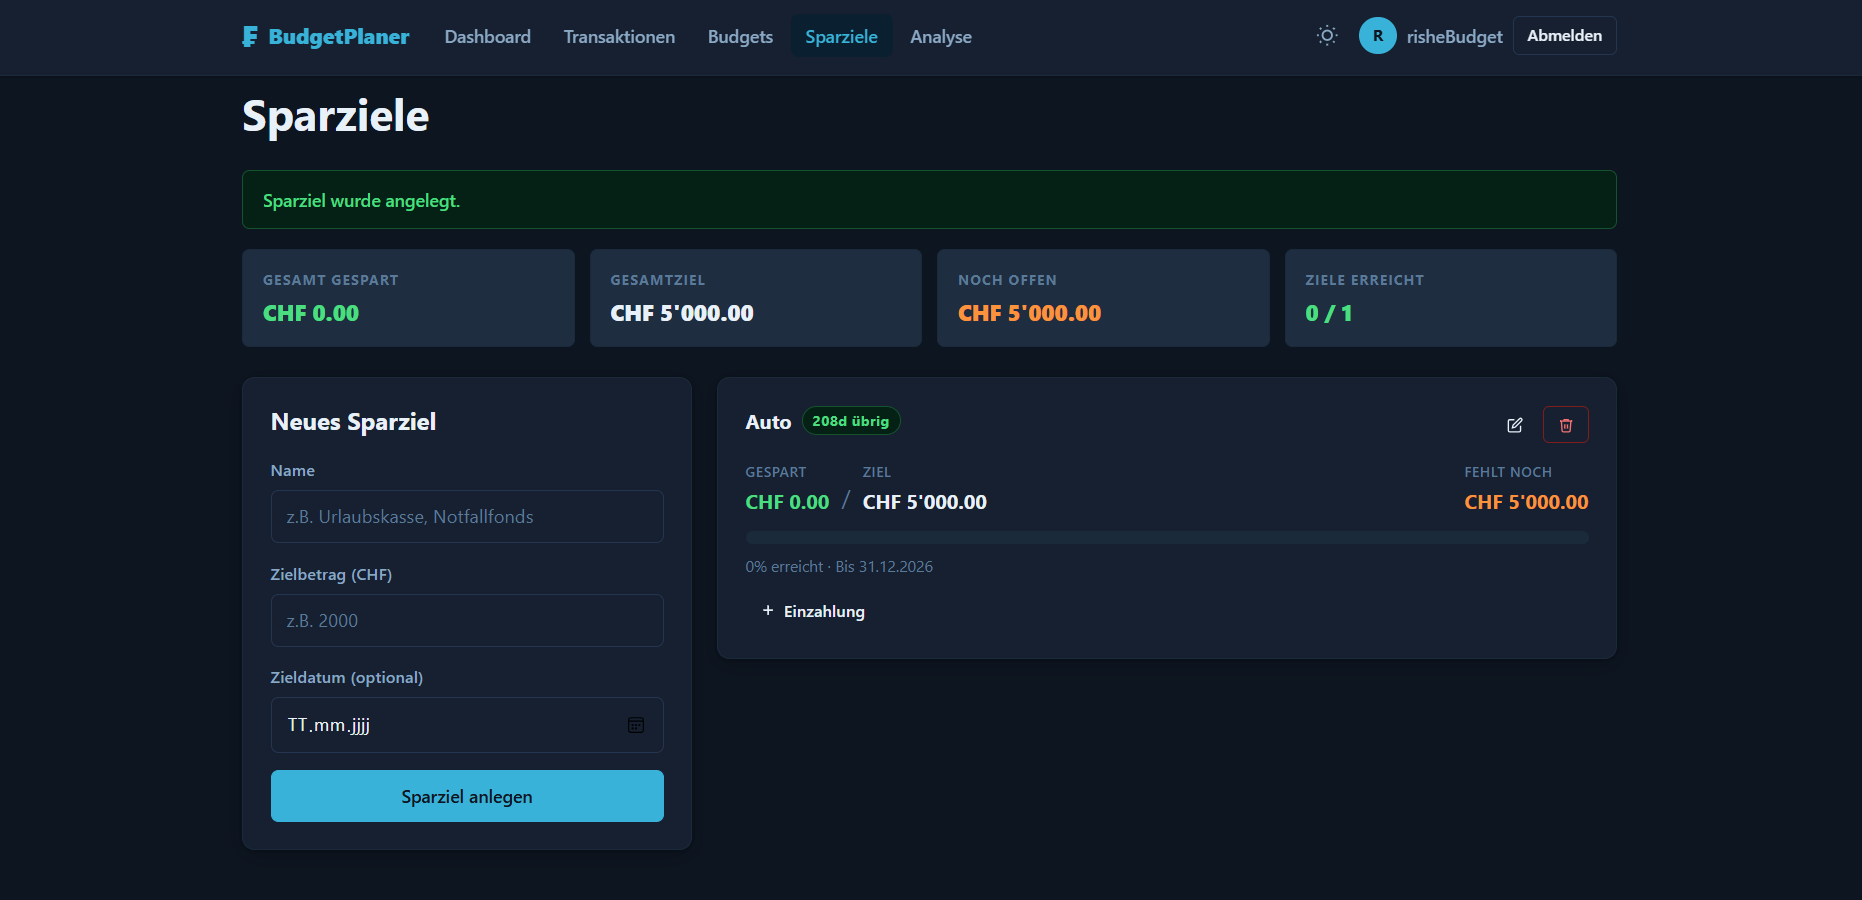
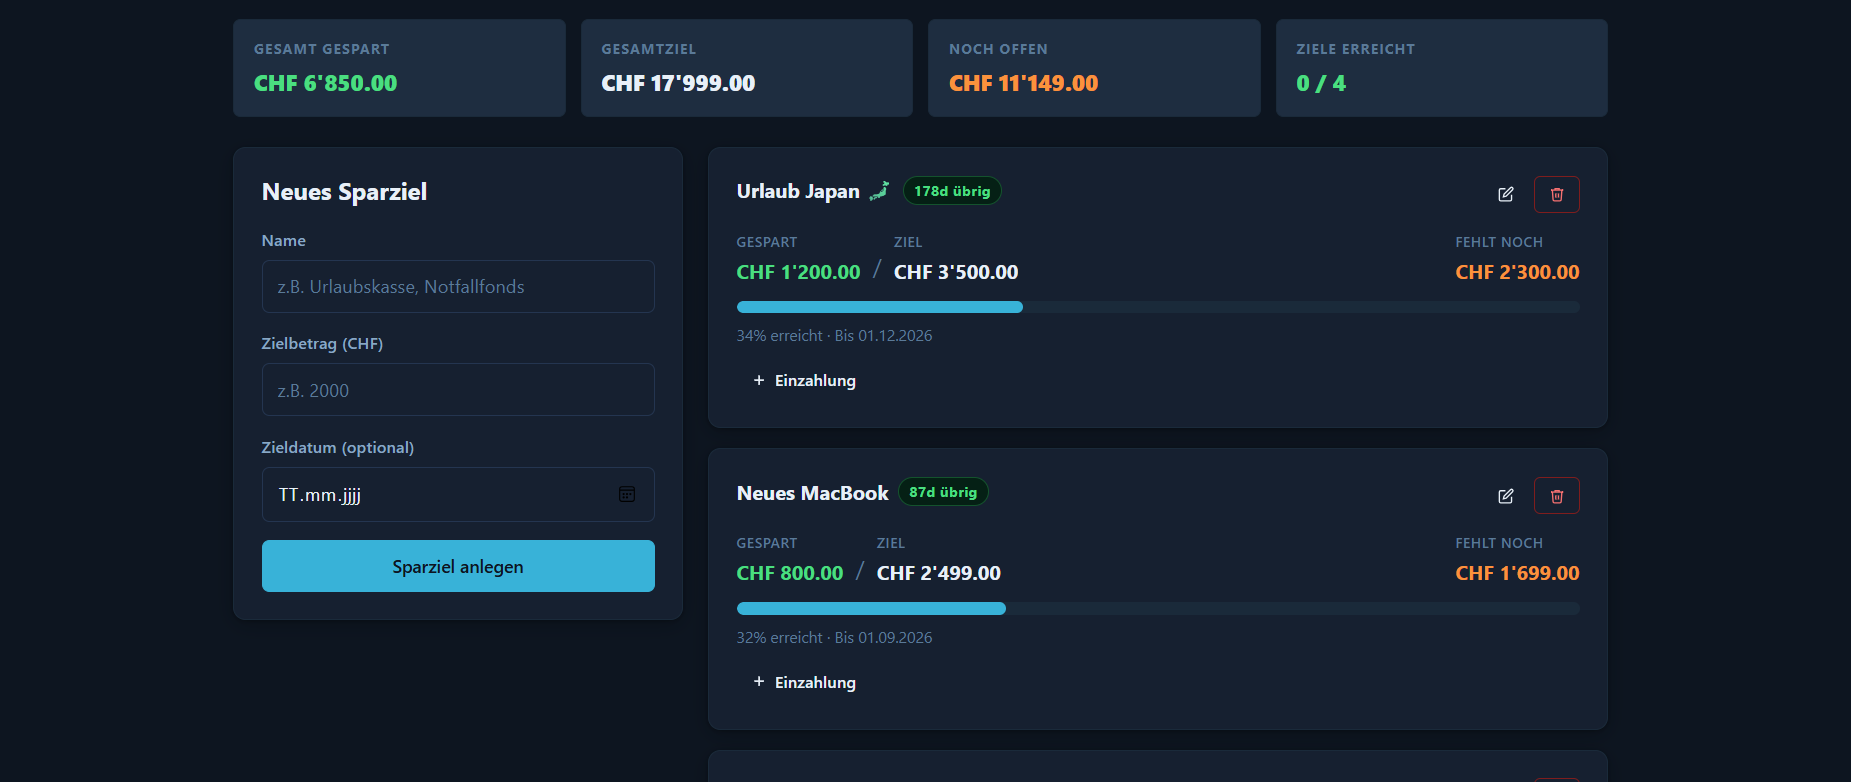
Update budget planner

diff --git a/README.md b/README.md
@@ -138,7 +138,7 @@ Beschreibt die Gestaltung und Interaktion des umgesetzten Prototyps.
 
   **Sparziele** — Karten pro Ziel mit Fortschrittsbalken, Resttagen bis zum Zieldatum und direktem Einzahlungsformular. Oben vier Zusammenfassungskarten: Gesamt gespart, Gesamtziel, Noch offen, Ziele erreicht.
 
-  (docs/sparziel.png)
+  ![sparziel](docs/sparziel.png)
 
 - **Designentscheidungen:**
   - Farbkodierung: Grün = positiv/im Rahmen, Orange = Warnung (80–99% des Budgets), Rot = Überschreitung (≥100%)
@@ -304,7 +304,7 @@ Die getestete Version war ein separater, vereinfachter Prototyp (HTML/CSS/JavaSc
 - **Wo umgesetzt:** `src/routes/analysis/+page.svelte` — reaktive Berechnung `byMonthCompare`, gruppiertes CSS-Balkendiagramm ohne externe Chart-Bibliothek.
 - **Referenz:** „Monatsvergleich"-Panel auf der Analyse-Seite (oben rechts).
 
-  (TODO: Screenshot Monatsvergleich-Diagramm einfügen)
+  ![monatsvergleich](docs/monatsvergleich.png)
 
 - **Aus Evaluation abgeleitet?:** Nein
 
@@ -314,7 +314,7 @@ Die getestete Version war ein separater, vereinfachter Prototyp (HTML/CSS/JavaSc
 - **Wo umgesetzt:** `src/lib/db.js` (Felder `rolloverEnabled`, `rolloverPercent`, `rolloverAmount`, `rolloverAppliedMonth`; Funktion `applyRolloversIfNeeded()`), `src/routes/budgets/+page.server.js` (Rollover-Berechnung beim Page-Load), `src/routes/budgets/+page.svelte` (Toggle + Prozent-Slider im Formular, Rollover-Chip in Budgetkarten).
 - **Referenz:** Abschnitt „Budget-Rollover aktivieren" im Budgetformular; blauer „+X CHF Rollover"-Chip auf Budgetkarten.
 
-  (TODO: Screenshot Rollover-Budgetkarte einfügen)
+  ![rollover](docs/rollover.png)
 
 - **Aus Evaluation abgeleitet?:** Nein
 
@@ -323,6 +323,9 @@ Die getestete Version war ein separater, vereinfachter Prototyp (HTML/CSS/JavaSc
 - **Beschreibung & Nutzen:** Die Analyse-Seite kann per Toggle zwischen zwei Modi umgeschaltet werden: **Gesamt** zeigt alle Daten über alle erfassten Monate aggregiert (wie bisher). **Pro Monat** blendet ein Dropdown mit allen verfügbaren Monaten ein — alle Auswertungsblöcke (KPI-Karten, Kategorien-Balkendiagramm, Donut-Chart, Budget-vs.-Ist-Tabelle, Top-Ausgaben) filtern sich sofort auf den gewählten Monat. Der Monatsvergleich-Chart bleibt in beiden Modi sichtbar und hebt den aktuell ausgewählten Monat visuell hervor. So können Nutzende nicht nur die Gesamtentwicklung, sondern auch einzelne Monate detailliert auswerten.
 - **Wo umgesetzt:** `src/routes/analysis/+page.svelte` — `viewMode`-State (`'total'` / `'monthly'`), reaktives `filteredTx` auf Basis des gewählten Monats; alle Berechnungen (KPIs, Kategorien, Budget-Vergleich, Top-Ausgaben) nutzen `filteredTx`. Der Monatsvergleich läuft weiterhin auf den ungefilterten Daten. Donut-Chart und dessen Label reagieren ebenfalls auf den gewählten Monat.
 - **Referenz:** Toggle-Schaltfläche „Gesamt / Pro Monat" oben rechts im Analyse-Header; Monatsdropdown erscheint nur im Pro-Monat-Modus.
+
+![monatsansicht analyse](<docs/analyse monatsansicht.png>)
+
 - **Aus Evaluation abgeleitet?:** Nein
 
 ---
